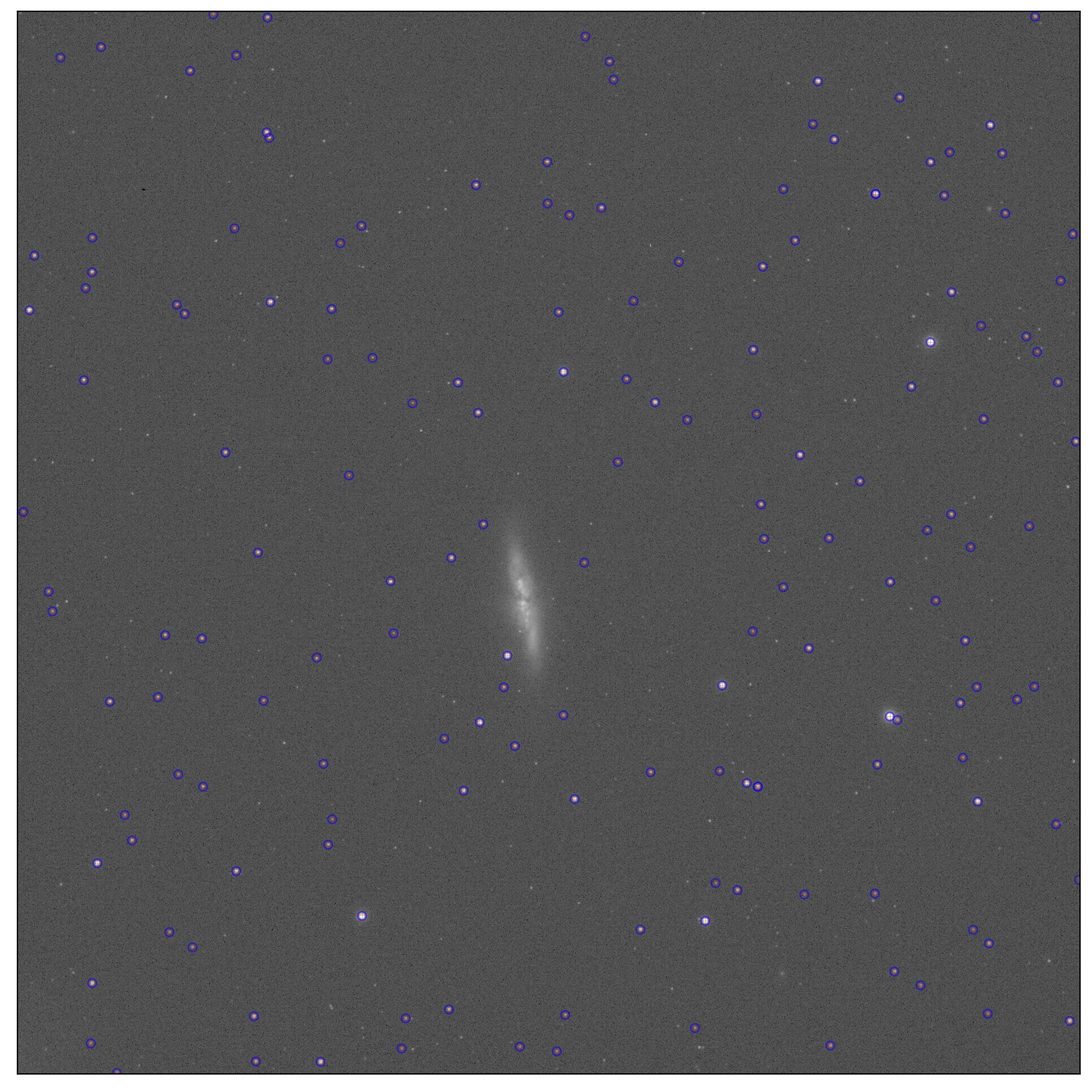
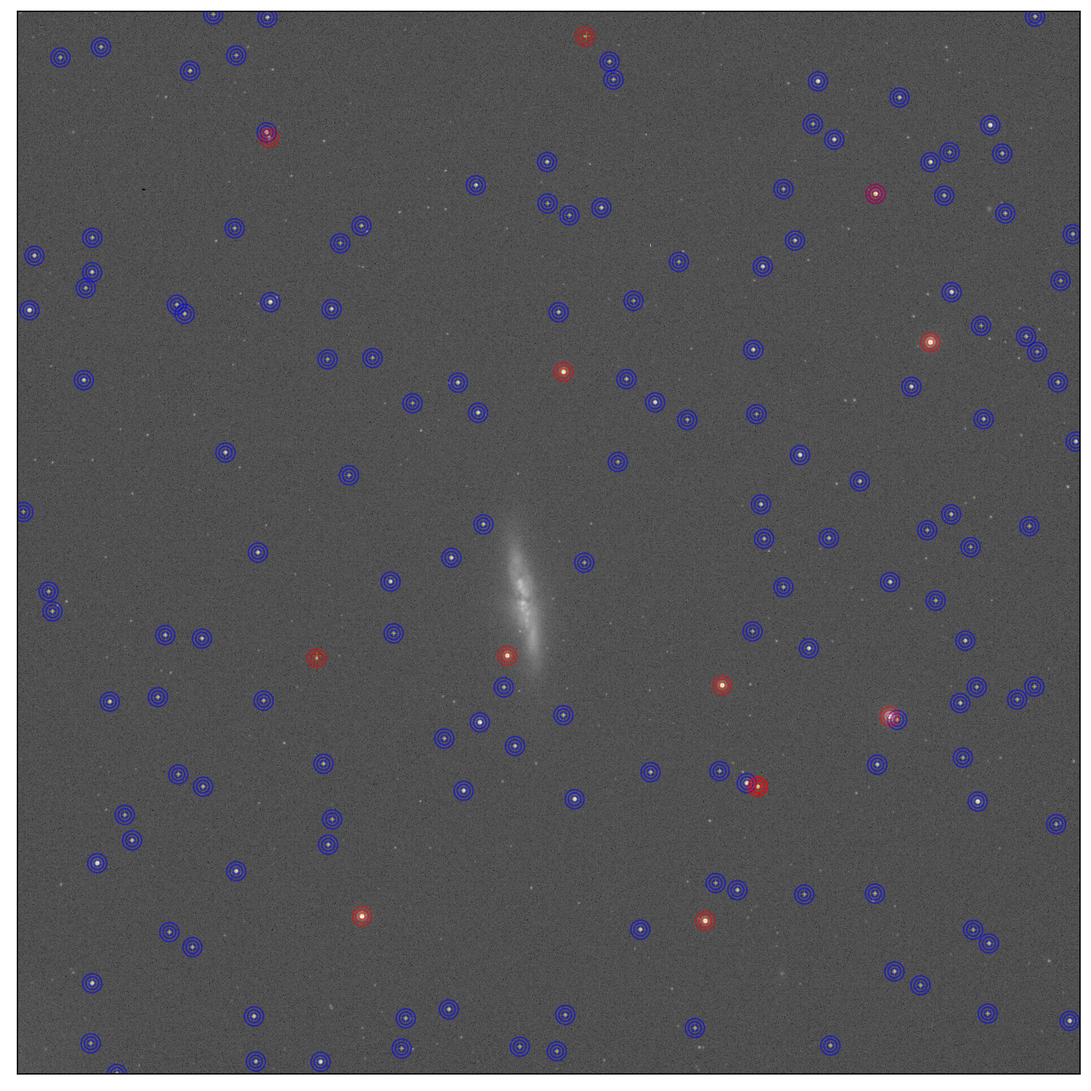
Identify photometry outliers, calculate FWHM

diff --git a/app/plots/overlay_stars.py b/app/plots/overlay_stars.py
@@ -33,15 +33,50 @@ def overlay_stars(datamodel, cfg=None):
 
     # Overlay Catalog Star Positions as WCS Evaluation
     print(f"Overlaying catalog star positions")
-    plt.scatter(stars['Catalog_X'], stars['Catalog_Y'], s=39, c='r', marker='+',
-                linewidths=0.3, edgecolors=None, alpha=0.5)
+    plt.scatter(stars['Catalog_X'], stars['Catalog_Y'],
+                s=3*star_r, c='y', marker='+',
+                linewidths=0.5, edgecolors=None, alpha=0.5)
 
     # Overlay Centroided Star Positions
-    centroided = ~np.isnan(stars['Centroid_X'])
-    print(f"Overlaying {np.sum(centroided)} centroided star positions")
-    for star in stars[centroided]:
+#     centroided = ~np.isnan(stars['Centroid_X'])
+#     print(f"Overlaying {np.sum(centroided)} centroided star positions")
+#     for star in stars[centroided]:
+#         c = plt.Circle((star['Centroid_X'], star['Centroid_Y']),
+#                        radius=2*star_r, edgecolor='b', facecolor='none',
+#                        alpha=0.5)
+#         plt.gca().add_artist(c)
+
+    # Overlay Stars with Good Photometry
+    good_photometry = stars[stars['Photometry'] & ~stars['Outliers']]
+    print(f"Overlaying {len(good_photometry)} stars with good photometry")
+    for star in good_photometry:
+        c = plt.Circle((star['Centroid_X'], star['Centroid_Y']),
+                       radius=star_r, edgecolor='b', facecolor='none',
+                       alpha=0.5)
+        plt.gca().add_artist(c)
         c = plt.Circle((star['Centroid_X'], star['Centroid_Y']),
                        radius=2*star_r, edgecolor='b', facecolor='none',
+                       alpha=0.5)
+        plt.gca().add_artist(c)
+        c = plt.Circle((star['Centroid_X'], star['Centroid_Y']),
+                       radius=3*star_r, edgecolor='b', facecolor='none',
+                       alpha=0.5)
+        plt.gca().add_artist(c)
+
+    # Overlay Photometry Outliers
+    outliers = stars[stars['Outliers']]
+    print(f"Overlaying {len(outliers)} photometry outlier stars")
+    for star in outliers:
+        c = plt.Circle((star['Centroid_X'], star['Centroid_Y']),
+                       radius=star_r, edgecolor='r', facecolor='none',
+                       alpha=0.5)
+        plt.gca().add_artist(c)
+        c = plt.Circle((star['Centroid_X'], star['Centroid_Y']),
+                       radius=2*star_r, edgecolor='r', facecolor='none',
+                       alpha=0.5)
+        plt.gca().add_artist(c)
+        c = plt.Circle((star['Centroid_X'], star['Centroid_Y']),
+                       radius=3*star_r, edgecolor='r', facecolor='none',
                        alpha=0.5)
         plt.gca().add_artist(c)
 
@@ -49,4 +84,5 @@ def overlay_stars(datamodel, cfg=None):
     ext = Path(datamodel.raw_file_name).suffix
     jpeg_file = Path(datamodel.raw_file_name.replace(ext, '.jpg'))
     if jpeg_file.exists(): jpeg_file.unlink()
+    print(f"Saving {str(jpeg_file)}")
     plt.savefig(jpeg_file, bbox_inches='tight', pad_inches=0.1, dpi=300)

diff --git a/app/plots/plot_zeropoints.py b/app/plots/plot_zeropoints.py
@@ -2,6 +2,7 @@
 
 ## Import General Tools
 from pathlib import Path
+import numpy as np
 from matplotlib import pyplot as plt
 
 
@@ -14,18 +15,42 @@ def plot_zeropoints(datamodel, cfg=None):
     catalog = cfg['Catalog'].get('catalog')
     stars = datamodel.stars.get(catalog, [])
 
-    plt.figure(figsize=(12,6))
-    plt.hist(stars['ZeroPoint'][stars['Photometry'] == True], bins=100,
+    photometry = stars[stars['Photometry'] == True]
+    good_photometry = stars[stars['Photometry'] & ~stars['Outliers']]
+    outliers = stars[stars['Outliers'] == True]
+
+    plt.figure(figsize=(8,6))
+
+    plt.subplot(2,1,1)
+    plt.title(f'Image Zero Point = {datamodel.zero_point:.3f} (std = {datamodel.zero_point_stddev:.3f})')
+    binsize = 0.05
+    min_bin = np.round(datamodel.zero_point/binsize)*binsize - 10*np.round(datamodel.zero_point_stddev/binsize)*binsize
+    max_bin = np.round(datamodel.zero_point/binsize)*binsize + 10*np.round(datamodel.zero_point_stddev/binsize)*binsize
+    bins = np.arange(min_bin, max_bin+binsize, binsize)
+    plt.hist(good_photometry['ZeroPoint'], bins=bins, color='green', alpha=0.8,
              label='Zero Point Values')
+    plt.hist(outliers['ZeroPoint'], bins=bins, color='red', alpha=0.3,
+             label='5 sigma Outliers')
     plt.axvline(datamodel.zero_point, color='k',
                 label=f'Zero Point = {datamodel.zero_point:.3f}')
     plt.axvline(datamodel.zero_point-datamodel.zero_point_stddev,
                 color='k', linestyle=':')
     plt.axvline(datamodel.zero_point+datamodel.zero_point_stddev, color='k', linestyle=':')
     plt.legend(loc='best')
+    plt.ylabel('Number of Stars')
+
+    plt.subplot(2,1,2)
+    plt.plot(good_photometry['ZeroPoint'], good_photometry['Gmag'], 'bo', ms=4,
+             label='Zero Point Values')
+    plt.plot(outliers['ZeroPoint'], outliers['Gmag'], 'rx', ms=4,
+             label='5 sigma Outliers')
+    plt.legend(loc='best')
+    plt.xlabel('Zero Point (mag)')
+    plt.ylabel('Gaia G Magnitude')
 
     # Save PNG
     ext = Path(datamodel.raw_file_name).suffix
     plot_file = Path(datamodel.raw_file_name.replace(ext, '_zp.png'))
     if plot_file.exists(): plot_file.unlink()
+    print(f"Saving {str(plot_file)}")
     plt.savefig(plot_file, bbox_inches='tight', pad_inches=0.1, dpi=300)

diff --git a/app/data_models/OSCImage.py b/app/data_models/OSCImage.py
@@ -52,6 +52,8 @@ class OSCImage(object):
             self.radius = None
             self.zero_point = None
             self.zero_point_stddev = None
+            self.fwhm = None
+            self.fwhm_stddev = None
         else:
             processed = self.getHDU('PROCESSED')
             # Check this is our data model
@@ -73,8 +75,15 @@ class OSCImage(object):
             else:
                 self.radius = None
             self.raw_file_name = self.hdulist[processed].header.get('RAWNAME', None)
-            self.zero_point = float(self.hdulist[processed].header.get('ZEROPNT', None))
-            self.zero_point_stddev = float(self.hdulist[processed].header.get('ZPSTDDEV', None))
+            hdr_zp = self.hdulist[processed].header.get('ZEROPNT', None)
+            self.zero_point = float(hdr_zp) if hdr_zp is not None else None
+            hdr_zp_std = self.hdulist[processed].header.get('ZPSTDDEV', None)
+            self.zero_point_stddev = float(hdr_zp_std) if hdr_zp_std is not None else None
+            hdr_fwhm = self.hdulist[processed].header.get('FWHM', None)
+            self.fwhm = float(hdr_fwhm) if hdr_fwhm is not None else None
+            hdr_fwhm_std = self.hdulist[processed].header.get('FWHMSTD', None)
+            self.fwhm_stddev = float(hdr_fwhm_std) if hdr_fwhm_std is not None else None
+
         self.split_colors()
 
         # Build Catalogs
@@ -178,6 +187,11 @@ class OSCImage(object):
                                           'Calculated Zero Point (Green)')
             self.hdulist[pind].header.set('ZPSTDDEV', f'{self.zero_point_stddev:.3f}',
                                           'Calculated Zero Point Std Dev (Green)')
+        if self.fwhm:
+            self.hdulist[pind].header.set('FWHM', f'{self.fwhm:.2f}',
+                                          'Typical FWHM')
+            self.hdulist[pind].header.set('FWHMSTD', f'{self.fwhm_stddev:.2f}',
+                                          'FWHM Std Dev')
 
         # Three Colors
         for color in ['RED', 'GREEN', 'BLUE']:

diff --git a/app/analyze/photometry.py b/app/analyze/photometry.py
@@ -32,9 +32,14 @@ def photometry(datamodel, cfg=None):
     for p in aperture_properties:
         stars.add_column(Column(name=p[0], data=getattr(apstats, p[1])))
 
+    # Record Typical FWHM
+    fwhm_values = stars['FWHM'][~np.isnan(stars['FWHM'])]
+    fwhm_mean, fwhm_median, fwhm_stddev = stats.sigma_clipped_stats(fwhm_values)
+    datamodel.fwhm = fwhm_median
+    datamodel.fwhm_stddev = fwhm_stddev
+
     ## Perform aperture photometry on stars
-    photometry = aperture.aperture_photometry(im, apertures)
-    print(photometry[100:140])
+    photometry = aperture.aperture_photometry(im, apertures, mask=datamodel.green_mask)
     stars.add_column(Column(name='StarArea', data=[apertures.area]*len(stars)))
     stars.add_column(Column(name='StarSum', data=photometry['aperture_sum']))
 #     stars.add_column(Column(name='StarSumErr', data=photometry['aperture_sum_err']))
@@ -48,17 +53,23 @@ def photometry(datamodel, cfg=None):
 
     flux = stars['StarSum'] - stars['StarArea']/stars['SkyArea']*stars['SkySum']
     stars.add_column(Column(name='StarFlux', data=flux))
+    wphot = ~np.isnan(stars['StarFlux'])
+    stars.add_column(Column(name='Photometry', data=wphot))
     instmag = -2.5*np.log10(flux)
     stars.add_column(Column(name='InstMag', data=instmag))
     zp = stars['Gmag'] - stars['InstMag']
     stars.add_column(Column(name='ZeroPoint', data=zp))
-    wphot = ~np.isnan(stars['StarFlux'])
-    stars.add_column(Column(name='Photometry', data=wphot))
 
+    # Record Typical ZeroPoint
     zp_values = stars['ZeroPoint'][stars['Photometry'] == True]
     zp_mean, zp_median, zp_stddev = stats.sigma_clipped_stats(zp_values)
     datamodel.zero_point = zp_median
     datamodel.zero_point_stddev = zp_stddev
+
+    # Look at Zero Point statistics and flag outlier stars
+    outliers = abs(stars['ZeroPoint']-zp_median) > 5*zp_stddev
+    print(f"Found {np.sum(outliers)} outlier stars")
+    stars.add_column(Column(name='Outliers', data=outliers))
 
     datamodel.stars[catalog] = stars
     

diff --git a/example.py b/example.py
@@ -38,7 +38,7 @@ catalog = Gaia DR3
 GmagLimit = 15
 
 [Photometry]
-StarApertureRadius = 6
+StarApertureRadius = 9
 ''')
 #index-dir = /Volumes/Ohina2External/astrometry_data
 
@@ -59,12 +59,13 @@ if not working_file.exists():
     if image.center_coord is not None:
         print(image.center_coord.to_string('hmsdms', precision=1))
         print(image.radius)
-    query_vizier(image, cfg=cfg)
-    photometry(image, cfg=cfg)
+    full_catalog = query_vizier(image, cfg=cfg)
     image.write('test.fits')
 else:
     print('Loading Existing Image')
     image = OSCImage(working_file)
+
+photometry(image, cfg=cfg)
 
 overlay_stars(image, cfg=cfg)
 plot_zeropoints(image, cfg=cfg)

diff --git a/app/analyze/get_catalog.py b/app/analyze/get_catalog.py
@@ -28,10 +28,15 @@ def query_vizier(datamodel, cfg=None):
         coords = SkyCoord(stars['RAJ2000'], stars['DEJ2000'], frame=ICRS,
                           unit=(u.deg, u.deg),
                           obstime=Time(2000, format='decimalyear'))
+        contains = wcs.footprint_contains(coords)
         x, y = wcs.world_to_pixel(coords)
         stars.add_column(Column(name='Catalog_X', data=x))
         stars.add_column(Column(name='Catalog_Y', data=y))
-        datamodel.stars[catalog] = stars
+
+        datamodel.stars[catalog] = stars[contains]
+        return stars
+    else:
+        return None
 
 
 # def get_Gaia(center_coord, radius):
